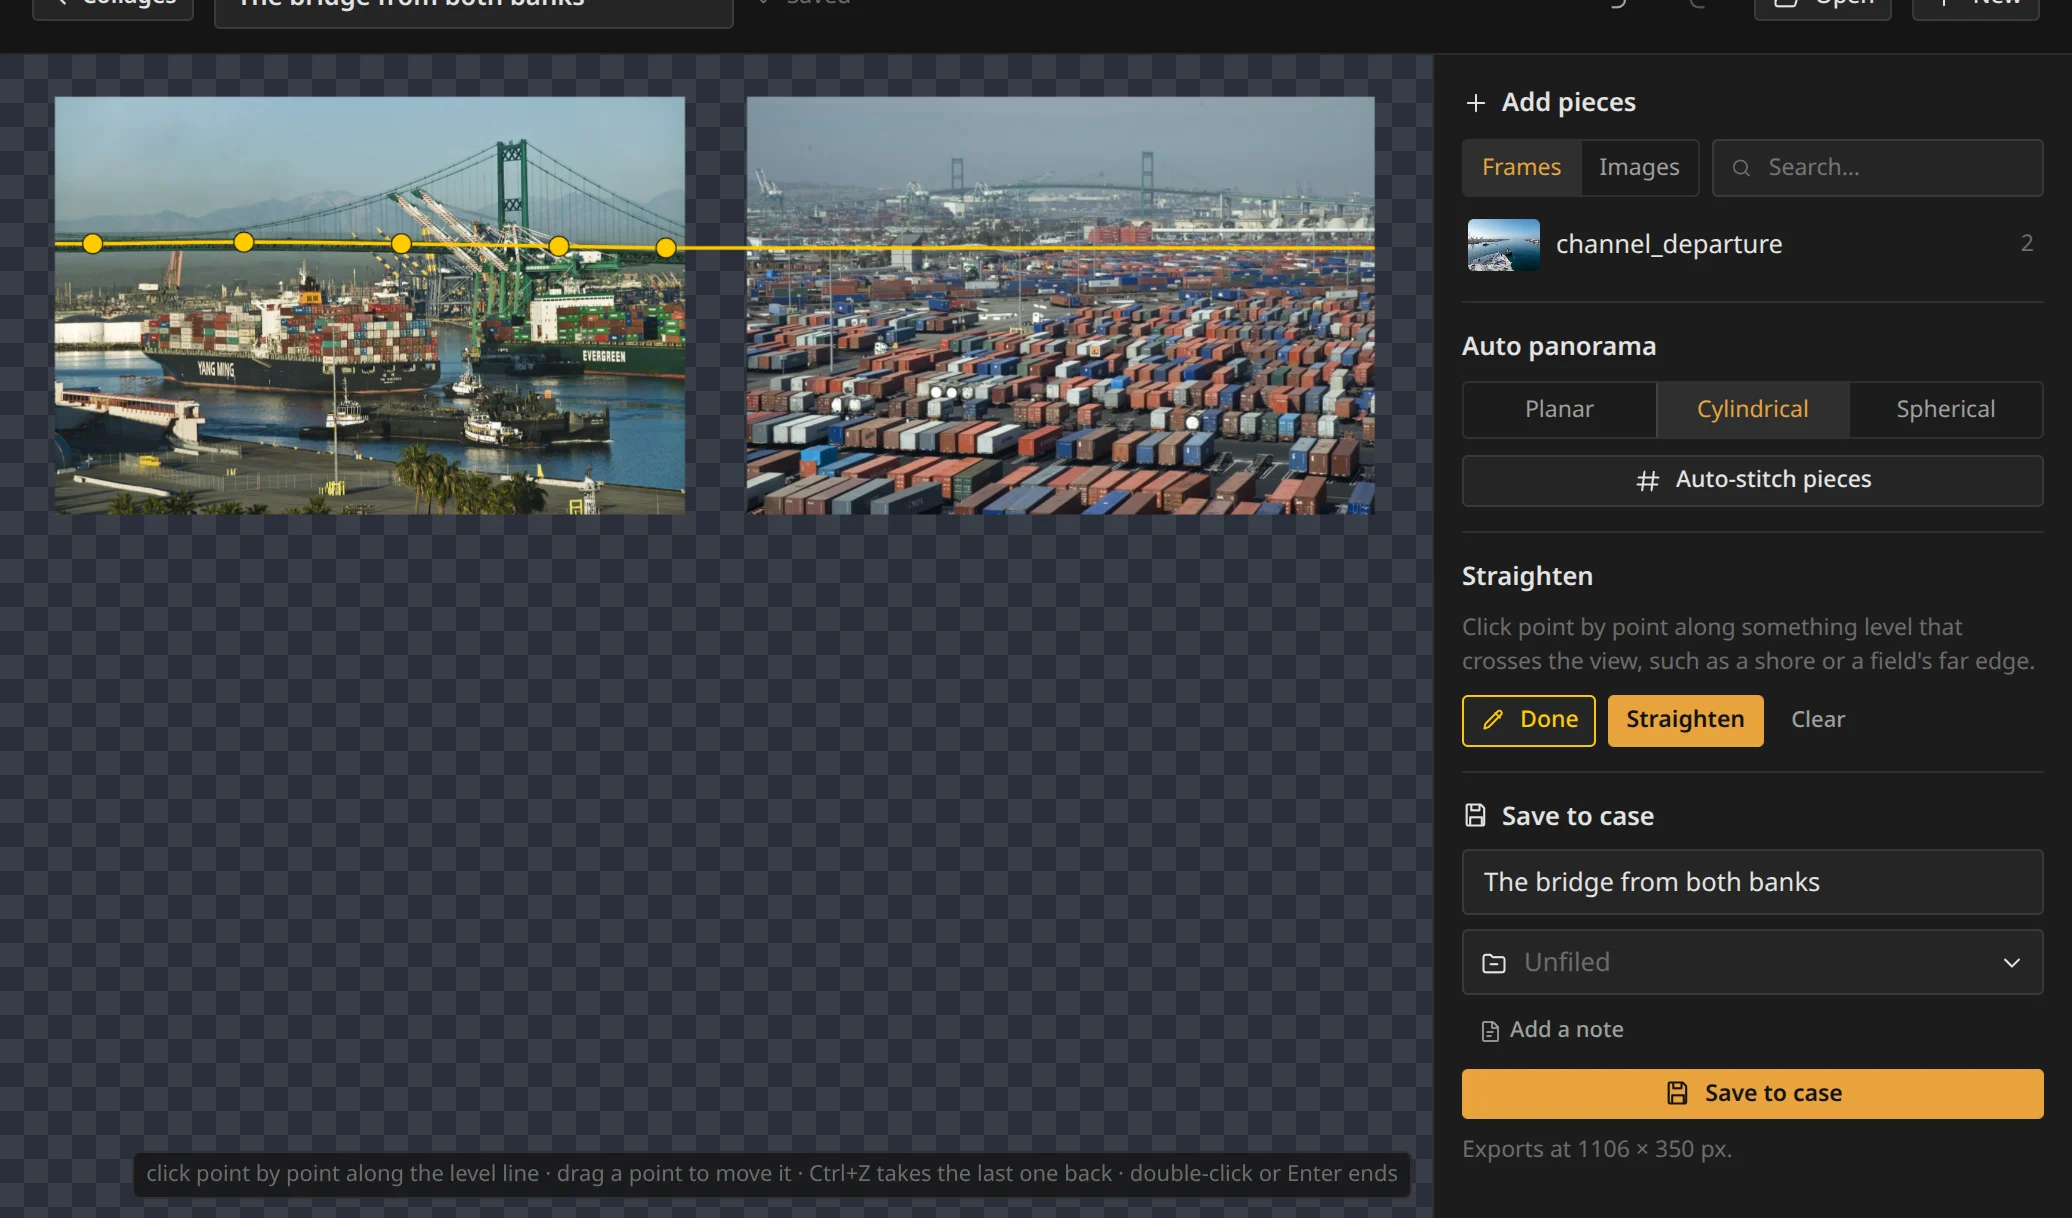
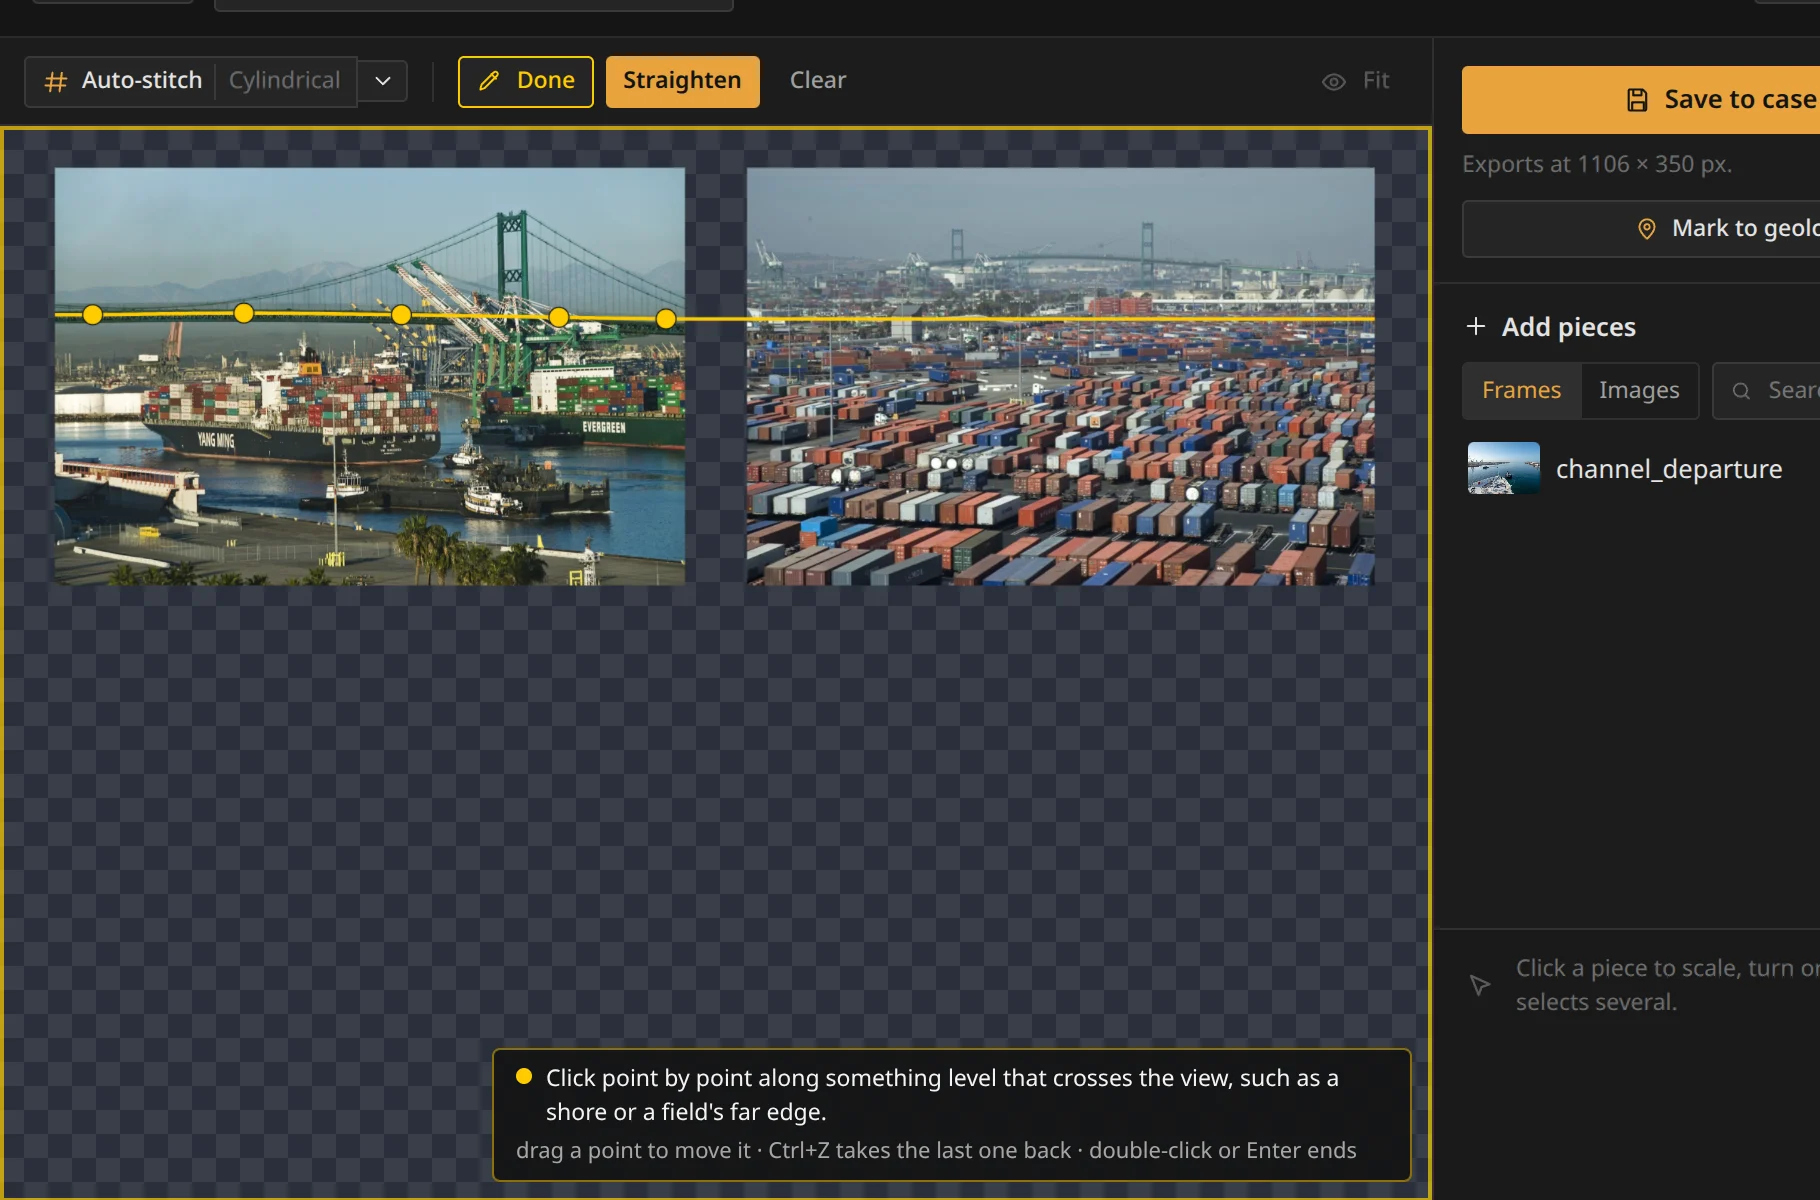
Describe the Collage tool's new layout and collages marked to geolocate, and retake its guide pictures

diff --git a/docs/UI.md b/docs/UI.md
@@ -1898,6 +1898,13 @@ stating no time. Any proof laying the picture out proves it, and the row then re
 *Proved · Proof 12* and opens it. A frame cut from a video belongs to that video's scenes
 and a capture is an answer, so neither has the tab.
 
+**Collages hang under their scenes.** The Scenes tab lists each collage cut from the clip
+under every scene holding one of its pieces, on a rule in the scene's colour, and under
+the whole video's scene when none does; a press opens it in the Collage tool. Make the
+proof offers the scene's collages between its frames and its captures, ticked, by the
+picture each was last saved as (*Changed since* on one edited after), and a proof can rest
+on a collage alone.
+
 **A capture never makes a scene; a frame belongs to one by its time.** A frame captured
 in no scene offers one instead, *Frame captured at 0:00.48 · Add a scene*, with
 **Whole video** and **This moment** (an instant at that frame), each with its Undo. A
@@ -1942,16 +1949,42 @@ piece whose file was deleted keeps its place as a hatched gap, and the export wa
 until it is removed. The selected piece is named by its file and, for a video, the time
 it was cut at.
 
+**The Collage tool is laid out for a laptop.** A bar over the canvas holds what acts on
+the whole collage: **Auto-stitch**, whose arrow picks Planar, Cylindrical or Spherical
+(the last pick named on the button and kept in this browser), **Straighten** with Draw
+the line, and **Fit**, with the zoom beside it once the canvas is zoomed. Auto-stitch's
+message carries Undo, and its arrow keeps Undo auto-stitch after the message goes. The
+panel keeps **Save to case** on top: one press files the picture under the collage's
+name and the last folder, its arrow unfolds the name, folder and note, and the export
+size is written under it. **Add pieces** takes the room left and scrolls on its own; the
+piece in hand sits at the foot (Scale, Rotate, Crop, Unwarp, Front, Back, Remove, or the
+block selected) and keeps its place and height whatever is selected. An empty collage
+says *Add frames from a video, or pictures* on its canvas, with Frames and Images opening
+those lists, or Cut frames in Inspect while no frame is cut.
+
+**A collage of one video is marked as that video.** When every piece is one video at an
+instant, or a frame saved from it, the panel reads *From channel_departure · 0:01–0:03*,
+and **Mark to geolocate** marks the whole video; its arrow offers the stretch the pieces
+span, or the instant of a single piece. A collage of several sources is a picture: the
+press saves it first when it is not in the case as it stands and marks it whole, and
+saved again, its mark follows the new picture (`POST /scenes/mark`). Marked, or with its
+pieces already in a scene of the video, it says where the scene stands, with
+**Geolocate**, which opens the collage beside the video on the map, and **Make the
+proof**, which opens Inspect's chooser on that scene. A proved scene says Proved and
+opens its proof. On the server a collage of one video's frames reads back to that video
+like a frame (`engine/scenes.py`), so a proof resting on it alone states its scene.
+
 **Straighten lays a bent pan flat.** A pan stitched with its tilt a little off bends a
-level line into a slope or a smile. **Draw the line**, then click point by point along
-something level that crosses the view, such as a shore, a field's far edge or a road
+level line into a slope or a smile. **Draw the line**, in the bar over the canvas, then click point
+by point along something level that crosses the view, such as a shore, a field's far edge or a road
 along the valley. The line is a rounded curve through every point, running on to the
 pointer as the next click would make it; a point added between two others bends only
 the stretch around it, and past the line's ends the picture moves as the end does. The
 curve is drawn across the whole collage, so that shows before anything bends. A point can
 be dragged while the line shows, drawing or done.
 Ctrl+Z takes the last point back while the line shows; a double-click, Enter or Esc ends
-the drawing. **Straighten** draws the whole collage as one picture and bends it so that
+the drawing; while it is drawn, the canvas takes the line's yellow at its edge and its
+corner says what to click. **Straighten** draws the whole collage as one picture and bends it so that
 line comes out flat: every column of pixels moves up or down by what the line is off
 there, so each frame's own pixels follow the line and the seams a stitch matched stay
 matched. The bent picture is a new file in the case ("… straightened"), and it takes the
